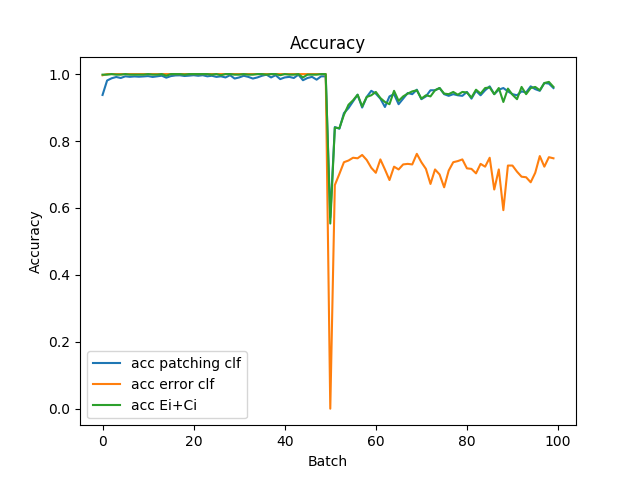
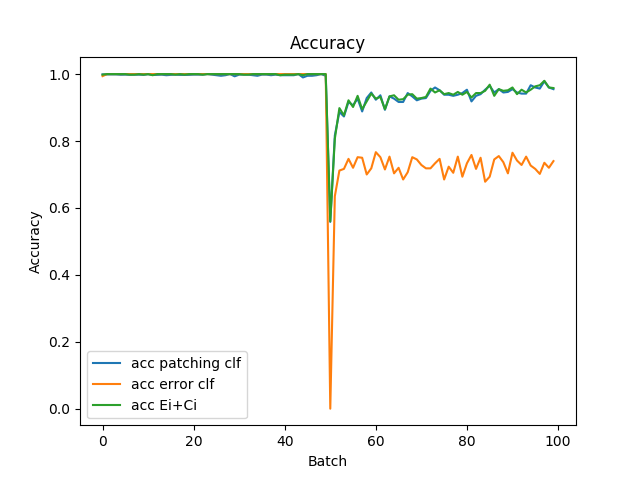
- use weighted base

Changed region(s): [[0.5, 0.1464, 0.875, 0.4686], [0.1562, 0.1464, 0.5, 0.205]]

diff --git a/mnist/mnist_drift_classifier_2.py b/mnist/mnist_drift_classifier_2.py
@@ -71,17 +71,19 @@ def make_model(Ei):
 
     model = Sequential()
     model.add(Conv2D(nb_filters, (nb_conv, nb_conv),
+                    name="layer1",
                     padding='valid',
                     input_shape=(img_rows, img_cols, 1)))
-    model.add(Conv2D(nb_filters, (nb_conv, nb_conv), padding='valid'))
-    model.add(Activation('relu'))
-    model.add(MaxPooling2D(pool_size=(nb_pool, nb_pool)))
+    model.add(Conv2D(nb_filters, (nb_conv, nb_conv), padding='valid', name="layer2"))
+    model.add(Activation('relu', name="layer3"))
+    model.add(MaxPooling2D(name="layer4", pool_size=(nb_pool, nb_pool)))
 
-    model.add(Conv2D(nb_filters * 2, (nb_conv, nb_conv), padding='valid'))
-    model.add(Conv2D(nb_filters * 2, (nb_conv, nb_conv), padding='valid'))
-    model.add(Activation('relu'))
-    model.add(MaxPooling2D(pool_size=(nb_pool, nb_pool)))
-    model.add(Dropout(0.25))
+    model.add(Conv2D(nb_filters * 2, (nb_conv, nb_conv), padding='valid', name="layer5"))
+    model.add(Conv2D(nb_filters * 2, (nb_conv, nb_conv), padding='valid', name="layer6"))
+    model.add(Activation('relu', name="layer7"))
+    model.add(MaxPooling2D(pool_size=(nb_pool, nb_pool), name="layer8"))
+    model.add(Dropout(0.25, name="layer9"))
+
 
     model.add(Flatten(name="Flatten"))
     model.add(Dense(128))
@@ -132,10 +134,12 @@ sizeOneBatch = totalDataSize // nbBatches
 # build models using weights from base
 model = load_model('model_base.h5')
 
-# model_Ci = make_weighted_model(False)
-# model_Ei = make_weighted_model(True
+#model_Ci = make_weighted_model(False)
+#model_Ei = make_weighted_model(True)
 model_Ci = make_model(False)
+model_Ci.load_weights("model_base_weights.h5", by_name=True)
 model_Ei = make_model(True)
+model_Ei.load_weights("model_base_weights.h5", by_name=True)
 
 lossArray_E = []
 accArray_E = []

diff --git a/mnist/mnist_arff_base.py b/mnist/mnist_arff_base.py
@@ -25,17 +25,18 @@ batch_size = 50
 
 model = Sequential()
 model.add(Conv2D(nb_filters, (nb_conv, nb_conv),
+                 name="layer1",
                  padding='valid',
                  input_shape=(img_rows, img_cols, 1)))
-model.add(Conv2D(nb_filters, (nb_conv, nb_conv), padding='valid'))
-model.add(Activation('relu'))
-model.add(MaxPooling2D(pool_size=(nb_pool, nb_pool)))
+model.add(Conv2D(nb_filters, (nb_conv, nb_conv), padding='valid', name="layer2"))
+model.add(Activation('relu', name="layer3"))
+model.add(MaxPooling2D(name="layer4", pool_size=(nb_pool, nb_pool)))
 
-model.add(Conv2D(nb_filters * 2, (nb_conv, nb_conv), padding='valid'))
-model.add(Conv2D(nb_filters * 2, (nb_conv, nb_conv), padding='valid'))
-model.add(Activation('relu'))
-model.add(MaxPooling2D(pool_size=(nb_pool, nb_pool)))
-model.add(Dropout(0.25))
+model.add(Conv2D(nb_filters * 2, (nb_conv, nb_conv), padding='valid', name="layer5"))
+model.add(Conv2D(nb_filters * 2, (nb_conv, nb_conv), padding='valid', name="layer6"))
+model.add(Activation('relu', name="layer7"))
+model.add(MaxPooling2D(pool_size=(nb_pool, nb_pool), name="layer8"))
+model.add(Dropout(0.25, name="layer9"))
 
 model.add(Flatten(name="Flatten"))
 model.add(Dense(128))
@@ -67,5 +68,6 @@ y_test = to_categorical(y_test, 10)
 #model.fit(X_50K, y_50K, batch_size=100, epochs=20)
 model.fit(X_train, y_train, validation_data=(X_test, y_test), batch_size=100, epochs=20)
 model.save("model_base.h5")
+model.save_weights("model_base_weights.h5")
 
 K.clear_session()                    
